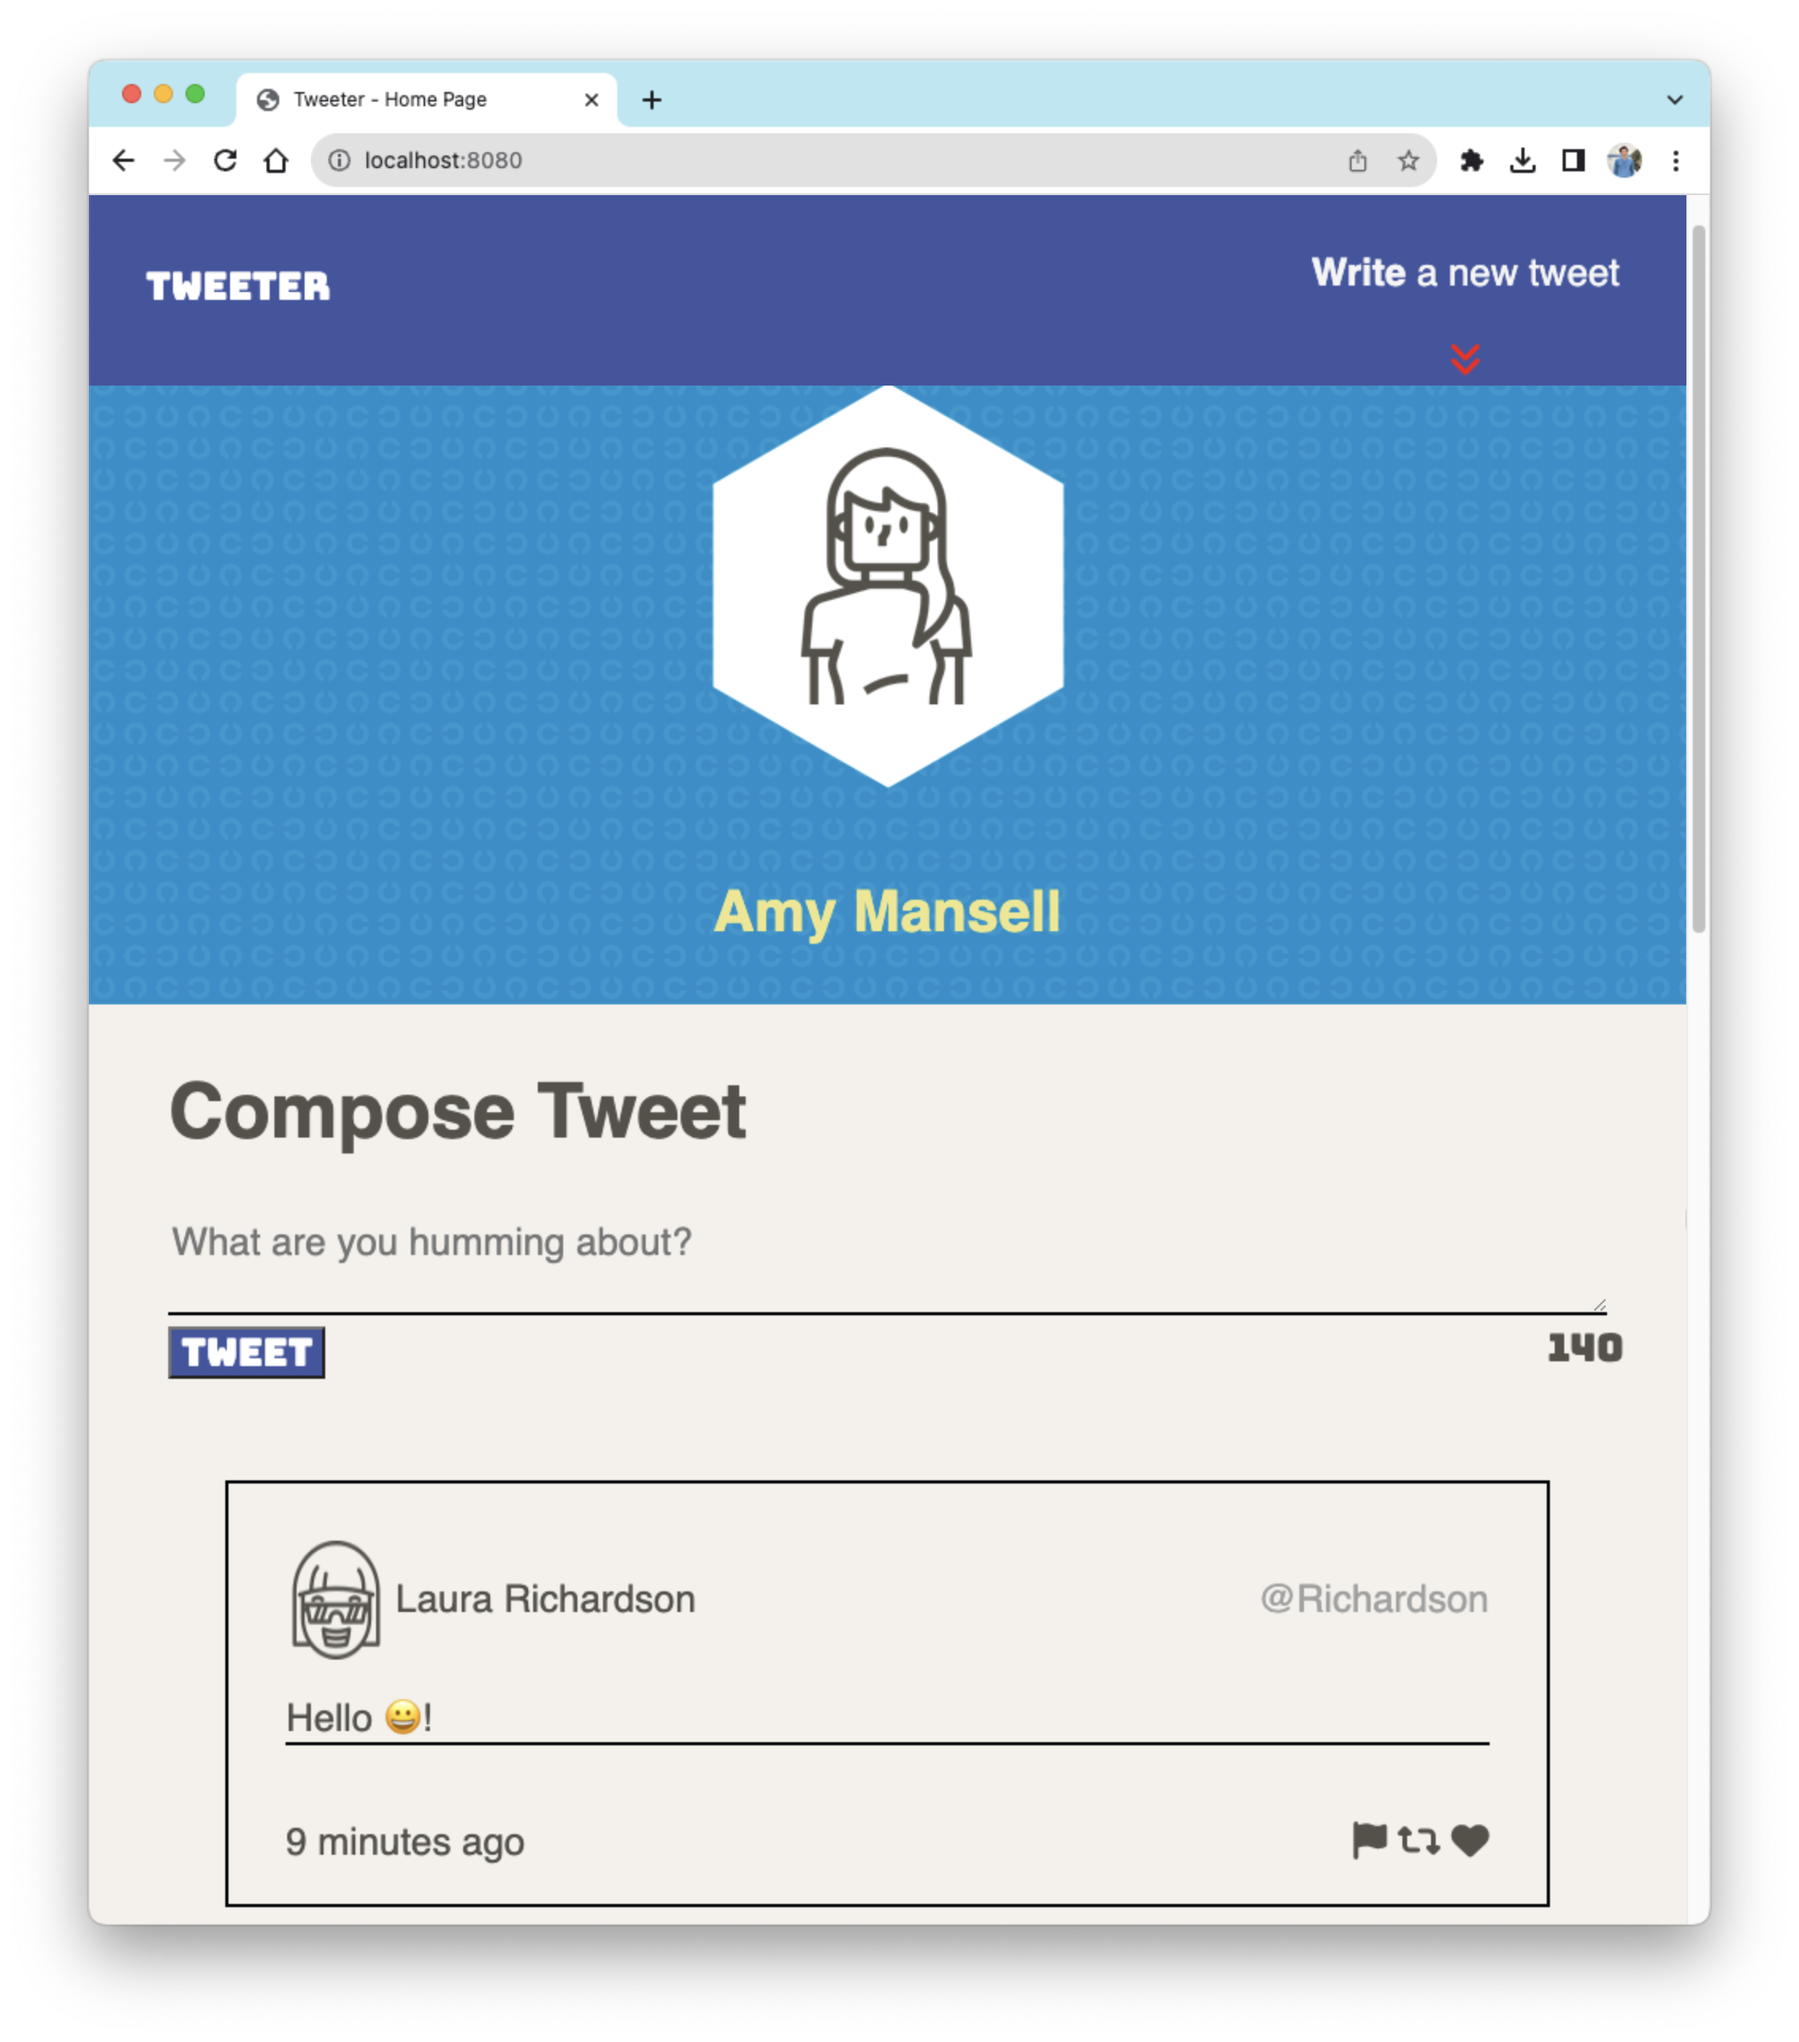
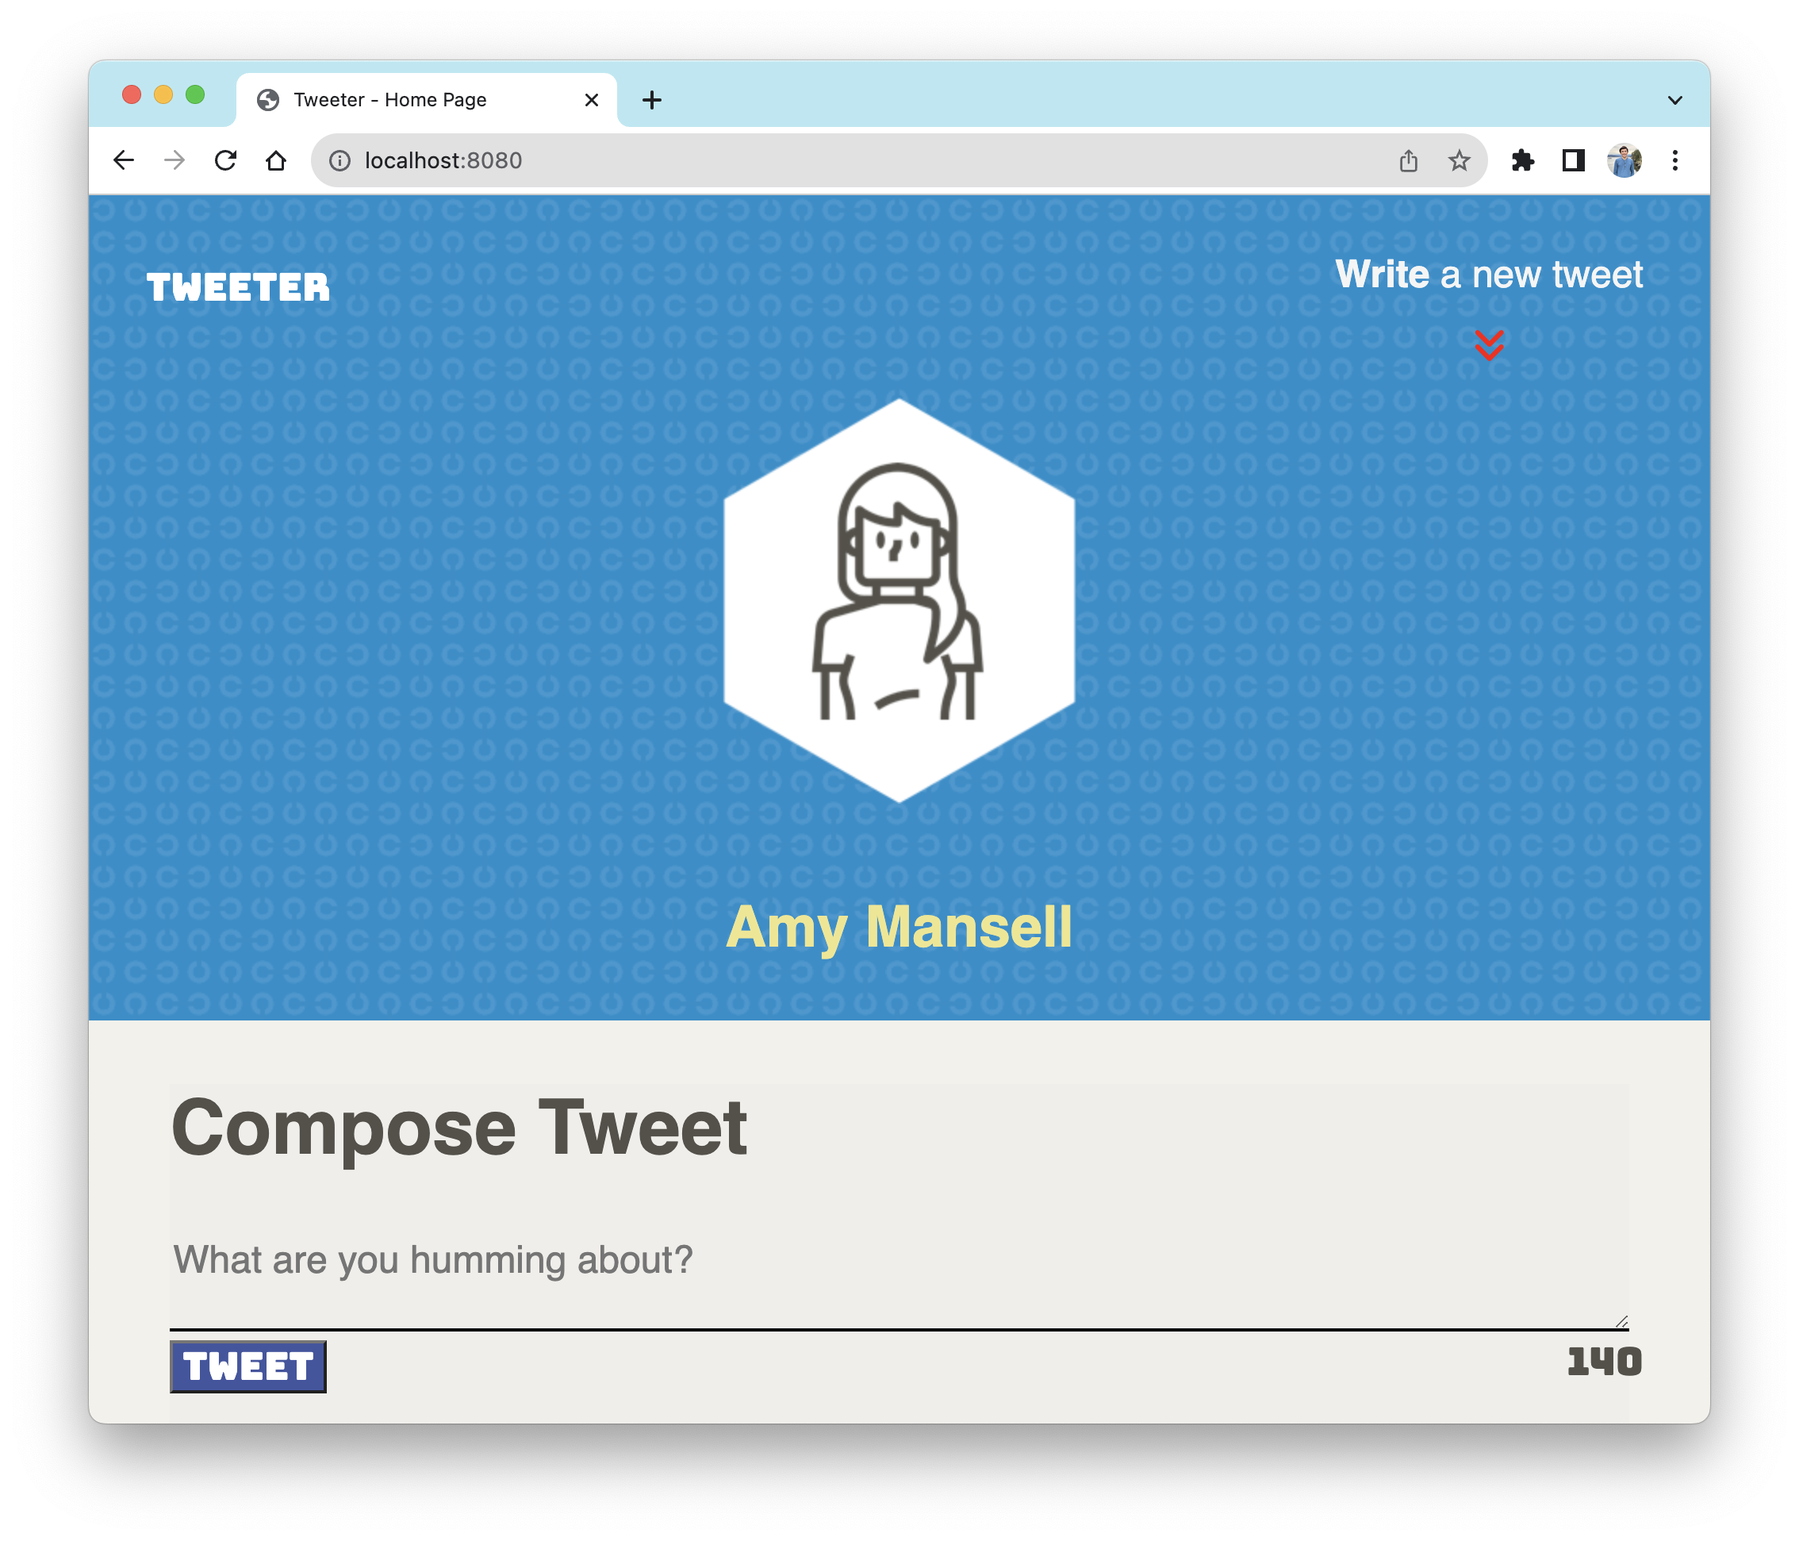
code has been revised based on feedbacks

diff --git a/public/styles/layout.css b/public/styles/layout.css
@@ -22,12 +22,12 @@ html {
 }
 
 body {
-  padding-top: 150px;
+  padding-top: 120px;
 }
 
 .container {
   width: 90%;
-  background-color: #f4f1ec;
+  background-color: #f1eeea;
   margin: 0 auto;
 }
 
@@ -47,7 +47,7 @@ body {
 }
 
 #profile-name {
-  color: rgb(160, 160, 160);
+  color: rgb(55, 50, 50);
 }
 
 .tweet-header {
@@ -75,6 +75,23 @@ body {
   border: 4px solid red;
   padding: 0.2em;
   color: red;
+}
+@media only screen and (min-width: 1024px) {
+  .Profile {
+    width: 30%;
+    float: left;
+    padding: 1.5em;
+    margin-top: 40px;
+    margin-left: 40px;
+    background-color: transparent;
+    background-image: url('https://www.transparenttextures.com/patterns/connected.png');
+  }
+
+.container {
+  width: 60%;
+  float: right;
+  padding: 1.5em;
+}
 }
 /*
  * Additional CSS can be defined below or in other CSS files, as per instructions

diff --git a/public/styles/nav.css b/public/styles/nav.css
@@ -7,6 +7,7 @@ nav {
   padding-right: 1.5em;
   position: fixed;
   top: 0;
+  align-items: stretch;
 }
   
 nav span {
@@ -37,6 +38,13 @@ nav button {
 #nav-icon {
   color: red;
   animation: moveUpDown 2s ease-in-out infinite;
+}
+@media only screen and (max-width: 1023px) {
+  nav {
+    background-color: #008fcc;
+    ;
+    background-image: url('https://www.transparenttextures.com/patterns/connected.png');
+  }
 }
 
 @keyframes moveUpDown {

diff --git a/public/styles/header.css b/public/styles/header.css
@@ -16,7 +16,10 @@
       width: 30%;
       float: left;
       padding: 1.5em;
+      margin-top: 40px;
       margin-left: 40px;
+      background-color: none;
+      background-image: url(https://www.transparenttextures.com/patterns/connected.png")
     }
     .container {
       width: 60%;
